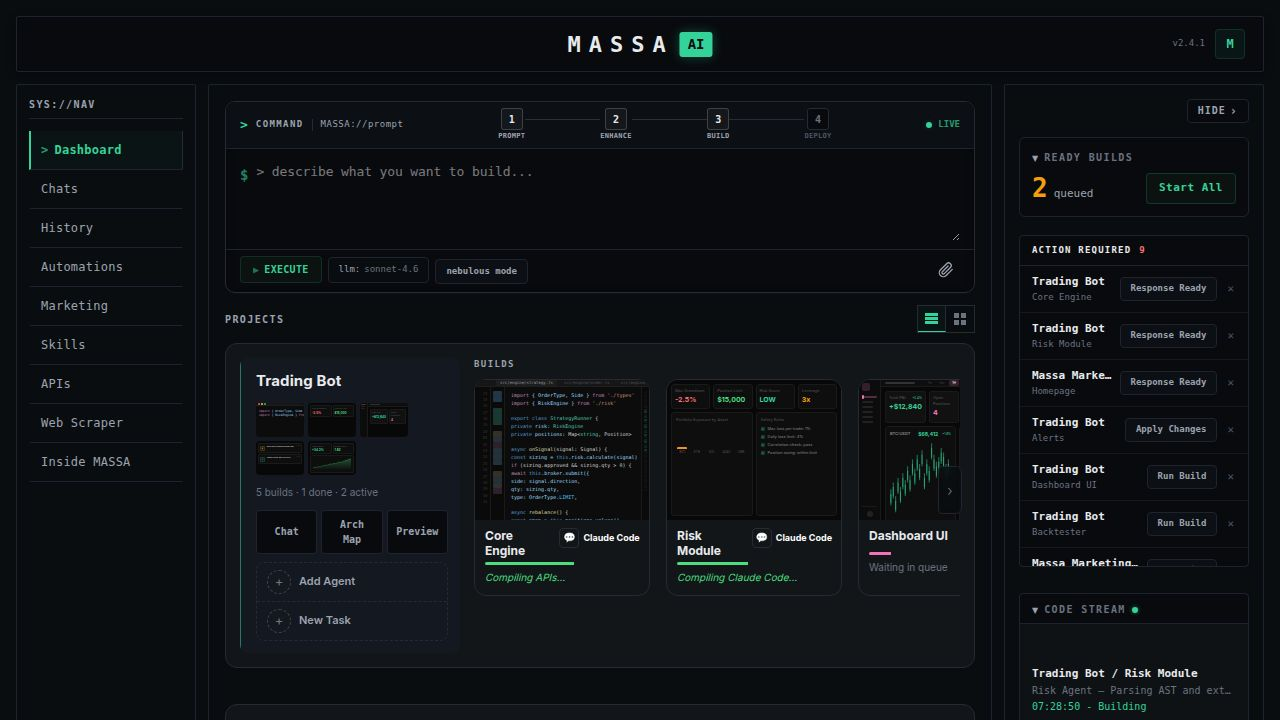
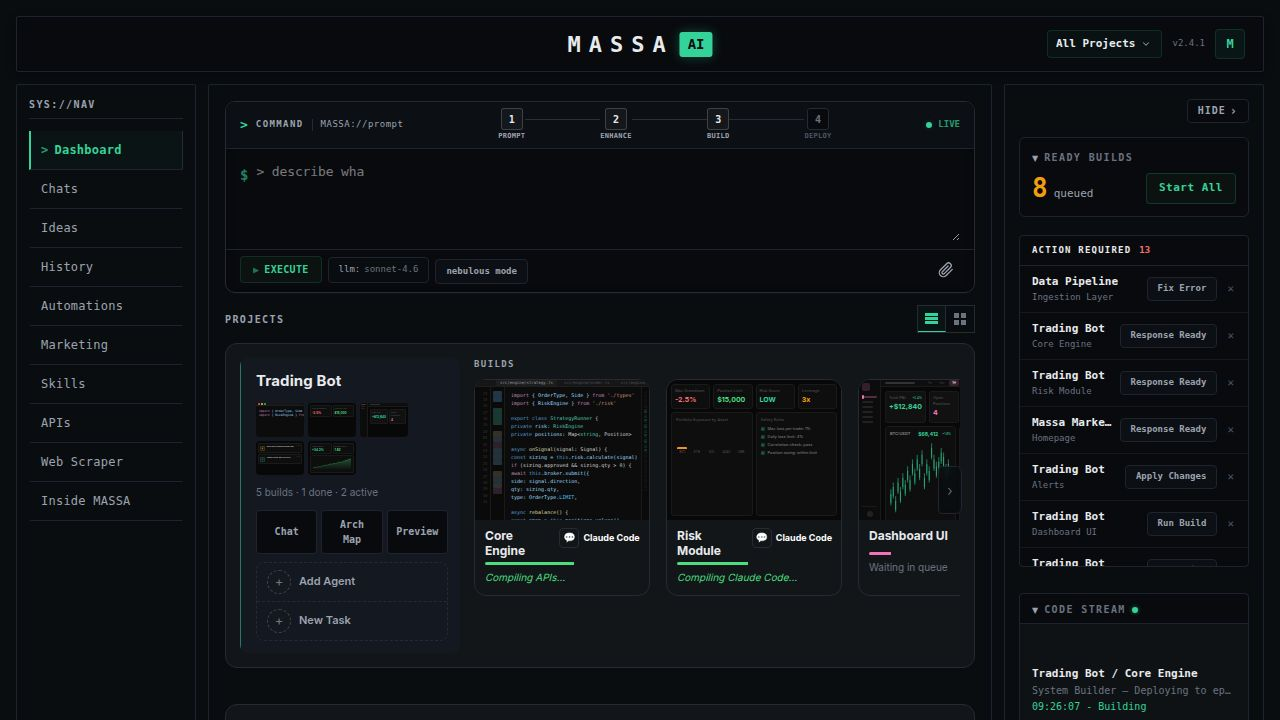
Add a dedicated page for quick idea capture and submission
Integrate a new React component `QuickCapture.tsx` as a route at `/quick` within `App.tsx` to handle user input and submission to the `/api/ideas` endpoint.

Replit-Commit-Author: Agent
Replit-Commit-Session-Id: e716b663-470e-4f1e-b545-bd8dced43562
Replit-Commit-Checkpoint-Type: full_checkpoint
Replit-Commit-Event-Id: 551ed598-5d25-4da9-85de-715ad9d4a7ca
Replit-Commit-Screenshot-Url: https://storage.googleapis.com/screenshot-production-us-central1/d3d7c67c-1c21-44cc-a655-6c0e8a9982d0/e716b663-470e-4f1e-b545-bd8dced43562/kpPw6ij
Replit-Helium-Checkpoint-Created: true

diff --git a/artifacts/massa/src/pages/QuickCapture.tsx b/artifacts/massa/src/pages/QuickCapture.tsx
@@ -1,0 +1,109 @@
+import { useState, useRef, useEffect } from 'react'
+
+const API_BASE = import.meta.env.BASE_URL.replace(/\/$/, '')
+
+export function QuickCapture() {
+  const [content, setContent] = useState('')
+  const [category, setCategory] = useState('general')
+  const [sending, setSending] = useState(false)
+  const [toast, setToast] = useState<{ msg: string; ok: boolean } | null>(null)
+  const ref = useRef<HTMLTextAreaElement>(null)
+
+  useEffect(() => { ref.current?.focus() }, [])
+
+  async function send() {
+    if (!content.trim() || sending) return
+    setSending(true)
+    try {
+      const r = await fetch(`${API_BASE}/api/ideas`, {
+        method: 'POST',
+        headers: { 'Content-Type': 'application/json' },
+        body: JSON.stringify({ content: content.trim(), category, source: 'mobile' }),
+      })
+      if (!r.ok) throw new Error()
+      setContent('')
+      setToast({ msg: 'Idea saved!', ok: true })
+    } catch {
+      setToast({ msg: 'Failed to save', ok: false })
+    } finally {
+      setSending(false)
+    }
+  }
+
+  useEffect(() => {
+    if (!toast) return
+    const t = setTimeout(() => setToast(null), 2000)
+    return () => clearTimeout(t)
+  }, [toast])
+
+  return (
+    <div style={{
+      background: '#0a0d10', color: '#e8eaed', fontFamily: "'JetBrains Mono', monospace",
+      minHeight: '100dvh', display: 'flex', flexDirection: 'column', alignItems: 'center',
+      justifyContent: 'center', padding: 20,
+    }}>
+      <div style={{ width: '100%', maxWidth: 400 }}>
+        <h1 style={{
+          fontSize: 14, color: '#34d399', letterSpacing: 2,
+          textTransform: 'uppercase', marginBottom: 24, textAlign: 'center',
+        }}>
+          &#9889; MASSA — Quick Idea
+        </h1>
+        <textarea
+          ref={ref}
+          value={content}
+          onChange={e => setContent(e.target.value)}
+          onKeyDown={e => { if (e.key === 'Enter' && !e.shiftKey && content.trim()) { e.preventDefault(); send() } }}
+          placeholder="What's on your mind?"
+          style={{
+            width: '100%', background: '#0c0f14', border: '1px solid #1c2028',
+            borderRadius: 8, color: '#e8eaed', fontFamily: 'inherit', fontSize: 16,
+            padding: 14, minHeight: 120, resize: 'vertical', outline: 'none',
+          }}
+        />
+        <div style={{ textAlign: 'right', fontSize: 11, color: '#6b7280', marginTop: 6 }}>
+          {content.length} chars
+        </div>
+        <div style={{ display: 'flex', gap: 8, marginTop: 12 }}>
+          <select
+            value={category}
+            onChange={e => setCategory(e.target.value)}
+            style={{
+              flex: 1, background: '#0c0f14', border: '1px solid #1c2028',
+              borderRadius: 8, color: '#e8eaed', fontFamily: 'inherit', fontSize: 14,
+              padding: 10, outline: 'none',
+            }}
+          >
+            <option value="general">General</option>
+            <option value="product">Product</option>
+            <option value="marketing">Marketing</option>
+            <option value="engineering">Engineering</option>
+            <option value="design">Design</option>
+            <option value="content">Content</option>
+          </select>
+          <button
+            onClick={send}
+            disabled={!content.trim() || sending}
+            style={{
+              flex: 1, background: '#34d399', color: '#0a0d10', border: 'none',
+              borderRadius: 8, fontFamily: 'inherit', fontSize: 14, fontWeight: 600,
+              padding: 12, cursor: 'pointer', opacity: (!content.trim() || sending) ? 0.4 : 1,
+            }}
+          >
+            {sending ? '...' : 'Send'}
+          </button>
+        </div>
+      </div>
+      {toast && (
+        <div style={{
+          position: 'fixed', top: 20, left: '50%', transform: 'translateX(-50%)',
+          background: toast.ok ? '#34d399' : '#ef4444', color: toast.ok ? '#0a0d10' : '#fff',
+          fontFamily: 'inherit', fontSize: 13, fontWeight: 600, padding: '10px 20px',
+          borderRadius: 8,
+        }}>
+          {toast.msg}
+        </div>
+      )}
+    </div>
+  )
+}

diff --git a/artifacts/massa/src/App.tsx b/artifacts/massa/src/App.tsx
@@ -10,6 +10,7 @@ import { InsideMassa } from "@/pages/InsideMassa";
 import { ImageGenerator } from "@/pages/ImageGenerator";
 import { VideoGenerator } from "@/pages/VideoGenerator";
 import { FigmaIntegration } from "@/pages/FigmaIntegration";
+import { QuickCapture } from "@/pages/QuickCapture";
 import { PROJECTS } from "@/data/mock";
 
 const queryClient = new QueryClient();
@@ -28,6 +29,7 @@ function Router() {
       <Route path="/image-generator" component={ImageGenerator} />
       <Route path="/video-generator" component={VideoGenerator} />
       <Route path="/figma" component={FigmaIntegration} />
+      <Route path="/quick" component={QuickCapture} />
       <Route path="/workspace/:projectId">
         {(params) => <WorkspaceRoute projectId={params.projectId} />}
       </Route>